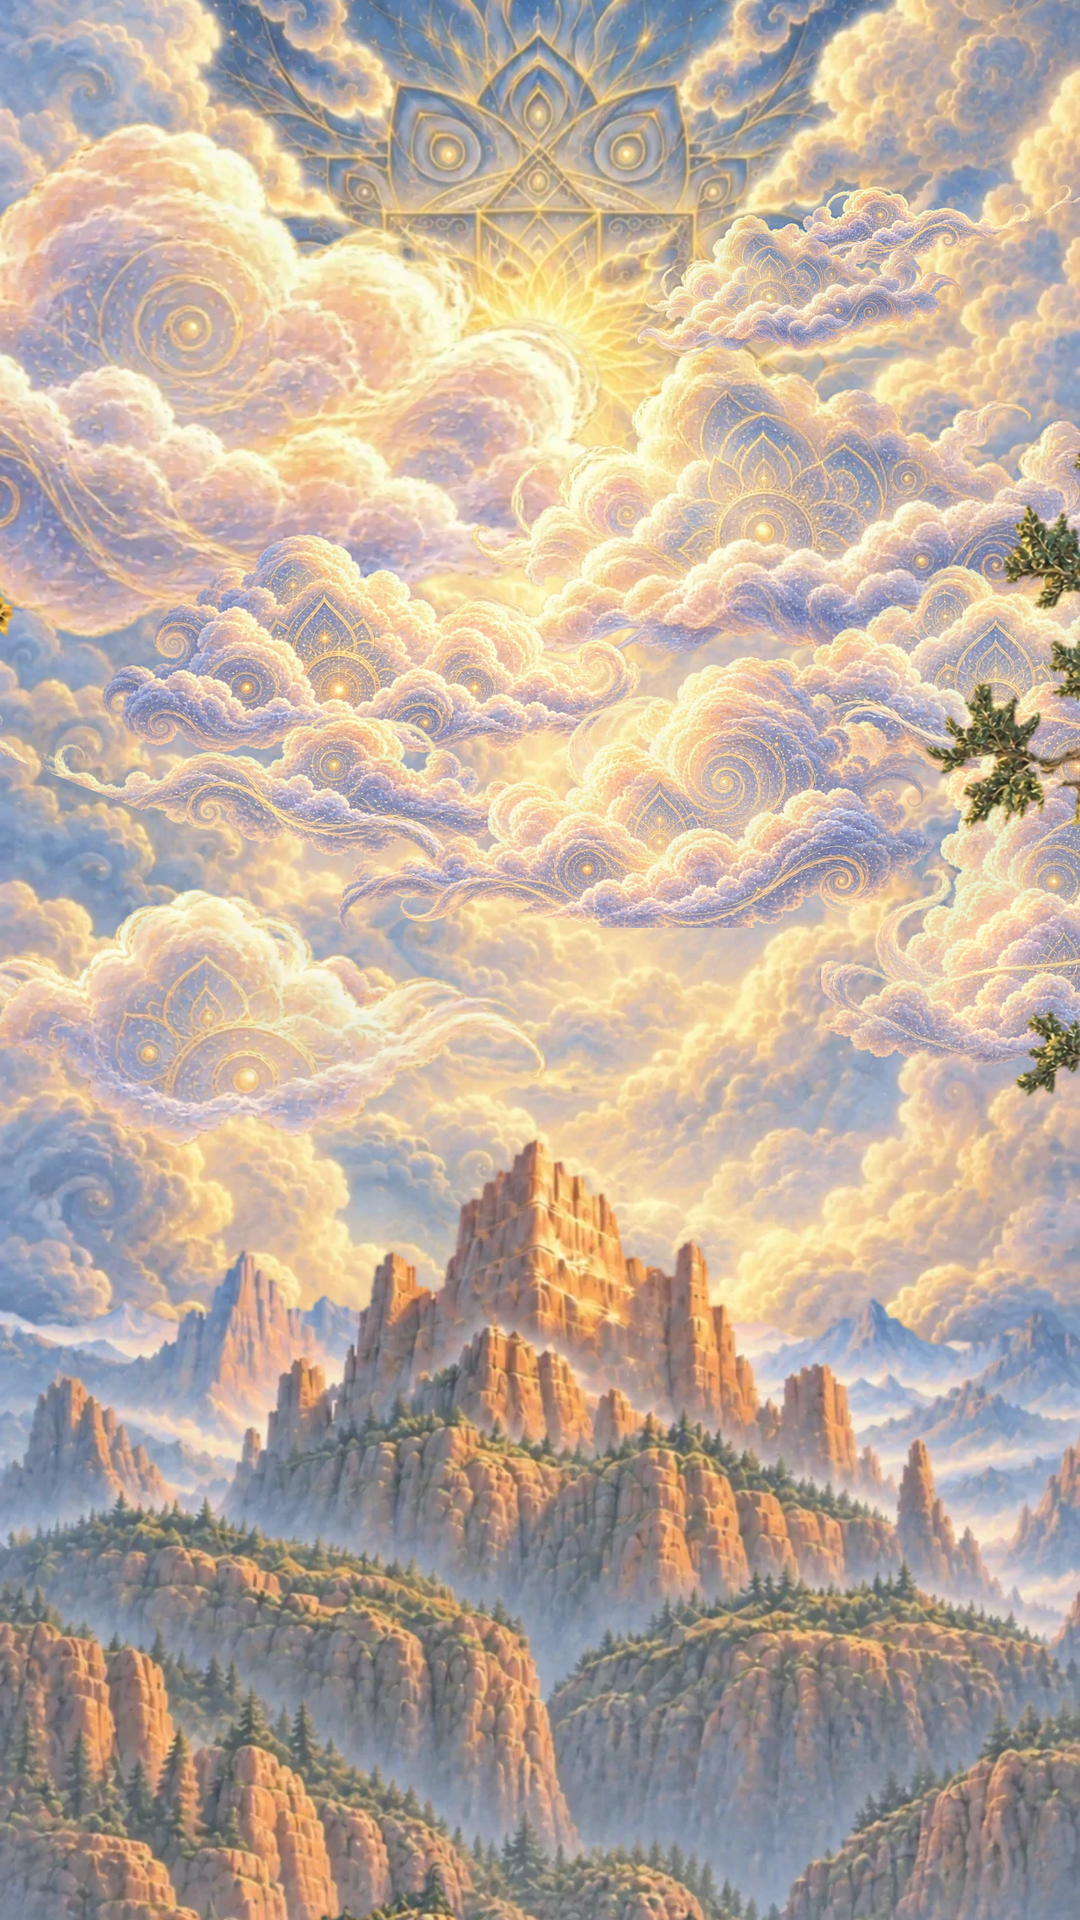
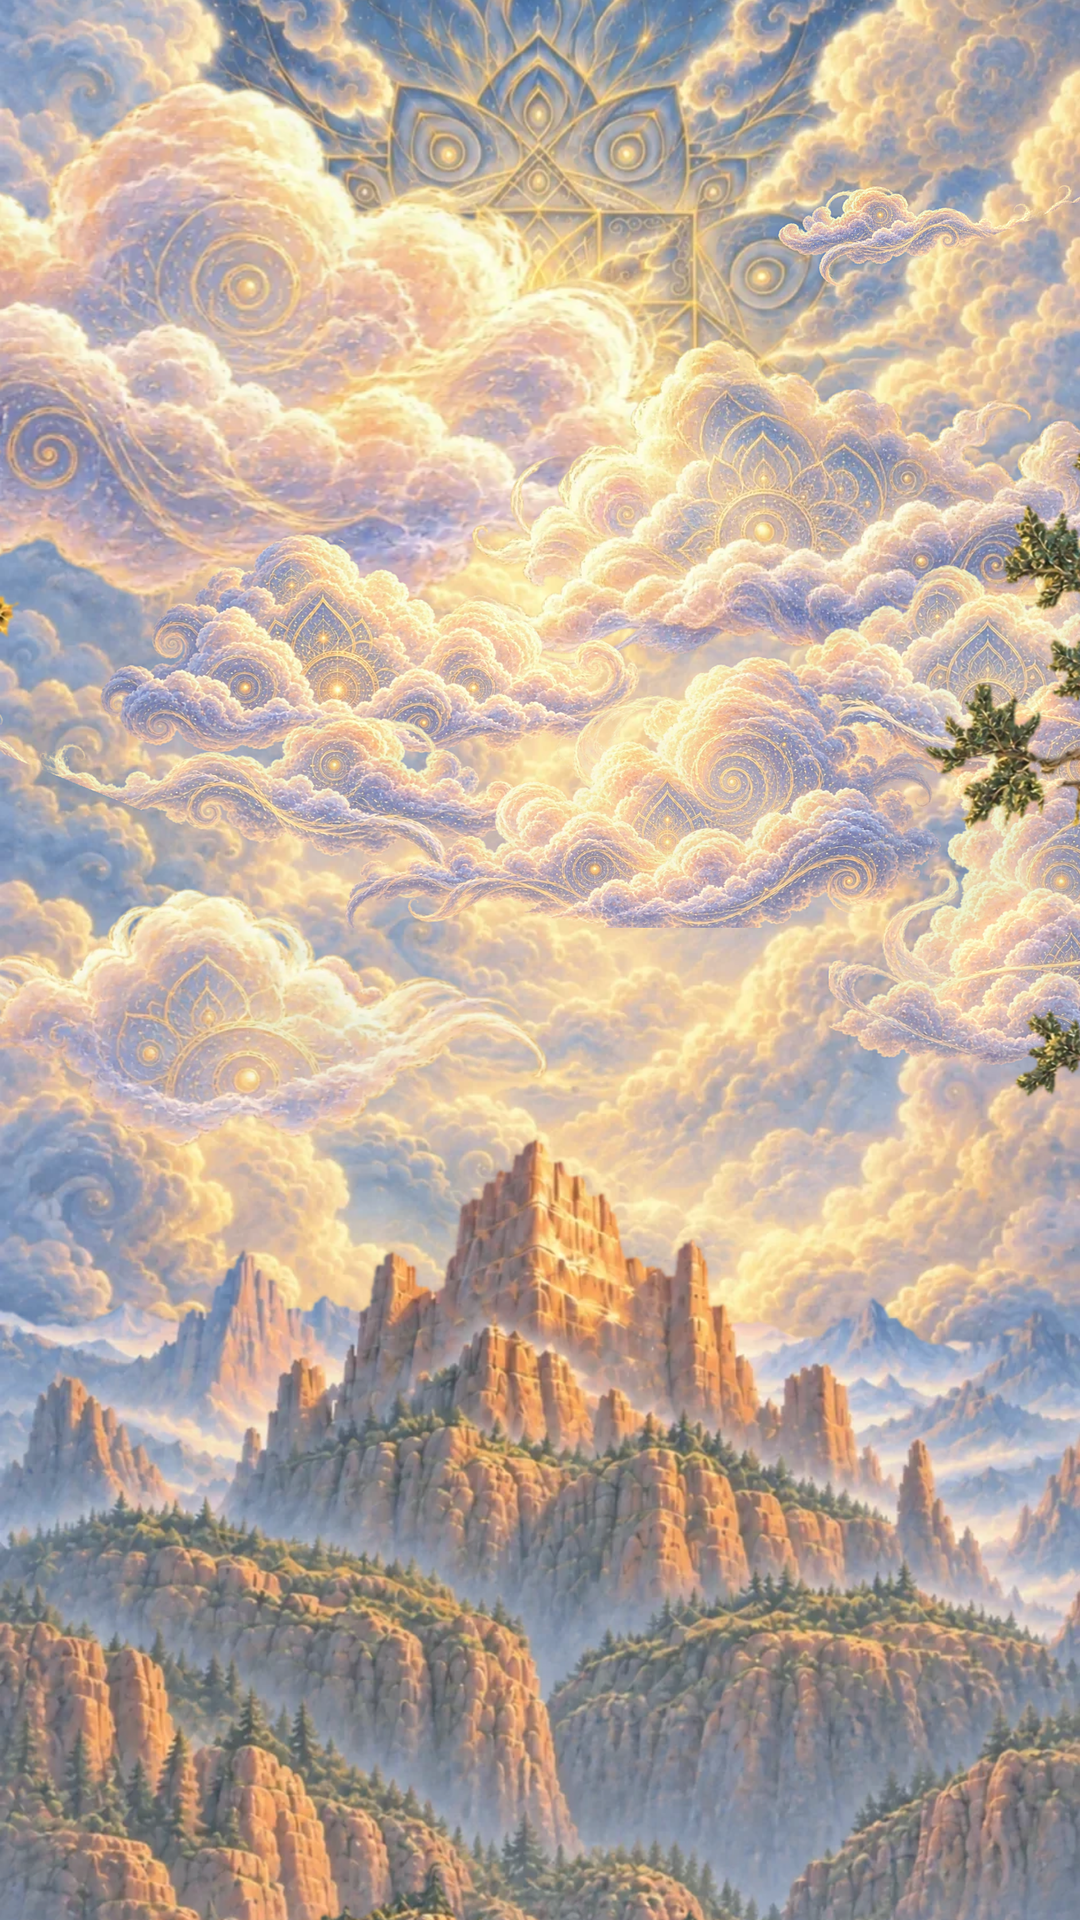
World v3: big cloud up and right to fully cover the sun; far-right left-moving cloud removed
Claude-Session: https://claude.ai/code/session_01X5u2D9a4RRbbCvwnE6RQKF

diff --git a/prototype/world-v3-preview/trev-world-scroll.html b/prototype/world-v3-preview/trev-world-scroll.html
@@ -57,10 +57,9 @@ const LAYERS = [
 // in the canvas; they part to `dir` and rise, nearer ones bigger and faster. `after` = drawn in
 // front of that layer.
 const CLOUDS = [ // ~60% of the sky above the rock covered, castle clear
-  { src: "burnell-world-cloud-medium.webp", after: "sky", depth: 0.25, w: 1061, x0: 150, y0: 336, dir: -1, op: 0.97, spd: 0.32 },
+  { src: "burnell-world-cloud-medium.webp", after: "sky", depth: 0.25, w: 1061, x0: 200, y0: 300, dir: -1, op: 0.97, spd: 0.32 },
   { src: "burnell-world-cloud-large.webp", after: "sky", depth: 0.5, w: 660, x0: 720, y0: 440, dir: 1, op: 0.97, flip: true, spd: 0.15 },
   { src: "trev-cloud-c.webp", ar: 0.295, after: "mountains", depth: 0.35, w: 300, x0: 830, y0: 205, dir: 1, op: 0.93, flip: true, spd: 0.65 },
-  { src: "burnell-world-cloud-large.webp", after: "mountains", depth: 0.35, w: 285, x0: 704, y0: 249, dir: -1, op: 0.91, flip: true, spd: 0.07 },
   { src: "trev-cloud-d.webp", ar: 0.413, after: "mountains", depth: 0.35, w: 470, x0: 330, y0: 560, dir: -1, op: 0.97, spd: 0.54 },
   { src: "trev-cloud-b.webp", ar: 0.5, after: "mountains", depth: 0.35, w: 520, x0: 860, y0: 585, dir: 1, op: 0.9, spd: 0.37 },
   { src: "burnell-world-cloud-small.webp", after: "mountains", depth: 0.35, w: 416, x0: 134, y0: 864, dir: -1, op: 0.91, flip: true, spd: 0.06 },
